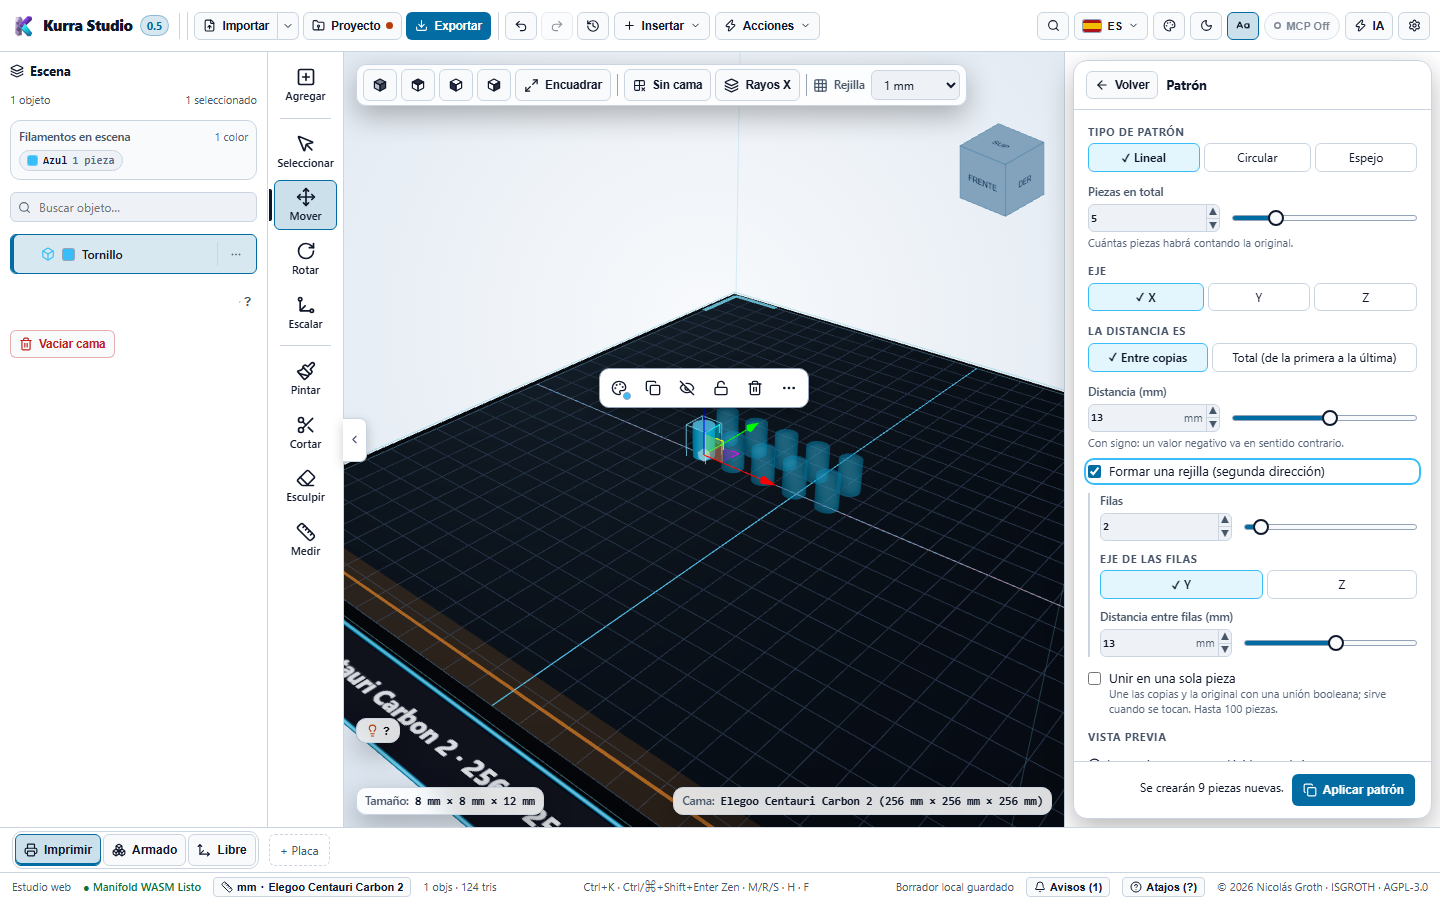
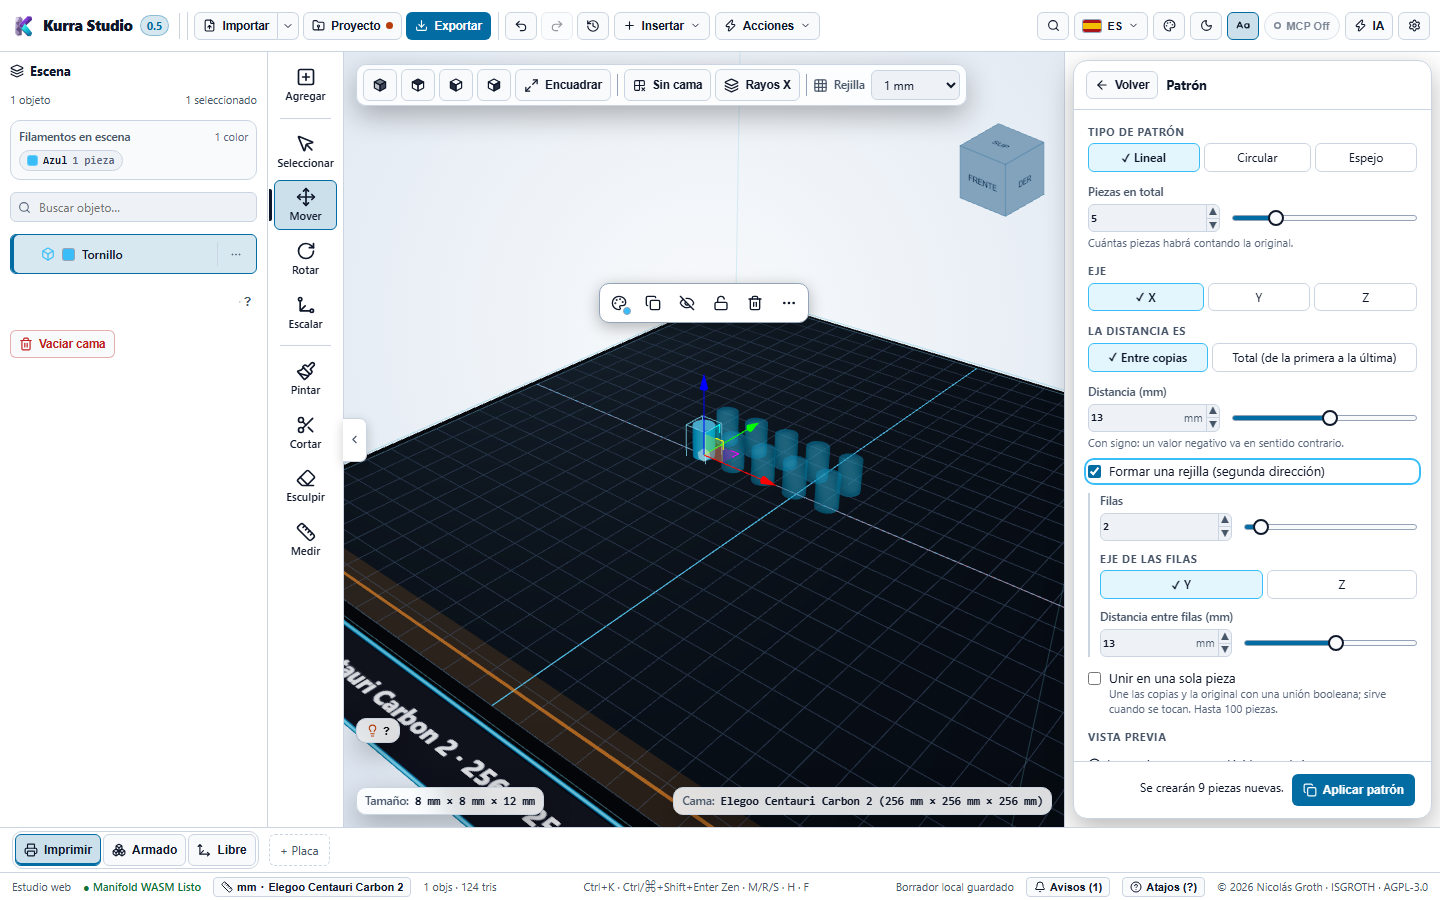
docs: guías y capturas de acoples e instrucciones de armado, tablero, changelog y registro

Changed region(s): [[0.4062, 0.4044, 0.5625, 0.4667], [0.4062, 0.3111, 0.5625, 0.3733]]

diff --git a/docs/TABLERO.md b/docs/TABLERO.md
@@ -1,14 +1,14 @@
 # Tablero de Kurra Studio
 
-**Actualizado el 26 de noviembre de 2026, 21:30.** Muestra qué funciona hoy, qué le falta a cada función y qué viene. El historial de lotes, pruebas y evaluaciones está en otros archivos (ver el final).
+**Actualizado el 26 de noviembre de 2026, 22:20.** Muestra qué funciona hoy, qué le falta a cada función y qué viene. El historial de lotes, pruebas y evaluaciones está en otros archivos (ver el final).
 
 ## En corto: hoy, 26 de noviembre
 
 **Notas a ciegas vigentes** (mínimo 85): funcional **86** · código **85** · usabilidad **81** en la última evaluación completa. En las dos funcionalidades más bajas, última ronda: placas **84** y Simplificar **72**; los cuatro defectos que encontró ya están corregidos, sin reevaluar todavía.
 
-**Pruebas en `main`:** 4655 del programa y 208 del servidor MCP, en verde. Recorridos de navegador de lo nuevo: patrones 20, Dividir a mano 2, partes de la figura 1, tapa roscada 3, arrastre 15, todos en verde.
+**Pruebas en `main`:** 4776 del programa y 220 del servidor MCP, en verde. Recorridos de navegador de lo nuevo, todos en verde: patrones 23, Dividir a mano 2, partes de la figura 1, tapa roscada 3, acople de tubería 2, instrucciones de armado 2, arrastre 15, escala de grupo 2, Simplificar 21.
 
-En desarrollo ahora mismo: nada. Los cuatro bloques de la noche están en `main`, **sin evaluar todavía** (la evaluación a ciegas queda para la mañana).
+En desarrollo ahora mismo: nada. Las seis funcionalidades de la noche están en `main`, **sin evaluar todavía**. Por cuidado del consumo semanal no se lanzaron más lotes; la evaluación a ciegas se acuerda con el autor antes de lanzarla.
 
 Lo que entró hoy y está en `main`:
 
@@ -16,6 +16,9 @@ Lo que entró hoy y está en `main`:
 - **Dividir por las partes de la figura** (cortes en los estrechamientos). Sin evaluar.
 - **Recipiente con tapa roscada** y **pareja de roscas que enrosca**, con comprobación de holgura. Sin evaluar.
 - **Patrón** lineal, en rejilla, circular y espejo. Sin evaluar.
+- **Acople de tubería** roscado o a presión. Sin evaluar.
+- **Instrucciones de armado** después de dividir, con descarga en Markdown y HTML. Sin evaluar.
+- **Corregido:** la barra flotante tapaba el agarre vertical al escalar un grupo; foco y encuadre en Simplificar; «Escena vacía» sobre la vista previa de un asistente; la cámara muestra todas las copias del patrón.
 - **Corregido:** con la vista inicial, arrastrar una pieza la movía en vertical en vez de sobre la cama.
 - **Tira de placas rediseñada:** el selector Imprimir / Armado / Libre y los controles de Armado viven en la tira; el visor queda libre a 1024 px.
 - **3MF que el laminador abre con sus bandejas:** con un «proyecto de ejemplo» de tu laminador (Exportar › 3MF › Laminador) llegan bandejas, nombres, filamento por pieza y colores. Probado por el autor en Elegoo Slicer y OrcaSlicer.
@@ -26,9 +29,8 @@ Lo que entró hoy y está en `main`:
 
 Qué falta verificar:
 
-- Evaluación a ciegas de los cuatro bloques de la noche, y reevaluación de placas y Simplificar.
+- Evaluación a ciegas de las seis funcionalidades de la noche, y reevaluación de placas y Simplificar.
 - «Por las partes de la figura» con figuras reales: en las pruebas con modelos de terceros solo una de cinco tuvo un estrechamiento útil; en figuras con pelo o capa vuelve a los cortes rectos y lo dice.
-- El punto de agarre Y de la escala de un grupo no responde al puntero en su recorrido de navegador (fallo anterior a esta noche, sin diagnosticar).
 - Los cuatro defectos de la última evaluación están corregidos y con recorrido de navegador (aviso y ajuste a la cama al arrastrar entre placas; informe de Simplificar tras «Aplicar de todos modos»; tolerancia pedida; Enter hace vista previa). Falta reevaluar.
 - Si la barra de avance del guardado se ve en un equipo con tarjeta gráfica (consulta abierta).
 - El 3MF con bandejas en Bambu Studio (el autor no lo tiene).
@@ -43,12 +45,12 @@ Para cerrar el día:
 
 Siguientes funcionalidades, en este orden:
 
-3. Encajes: acoples de tubería, clips y biblioteca de conectores.
-4. Instrucciones de armado y preajustes de conectores.
+3. Encajes: clips, preajustes de insertos y biblioteca de conectores.
+4. Instrucciones de armado con imágenes de cada paso.
 5. Tiradores en las caras para estirar una pieza.
 6. Mejoras de pintura (cursor de área, borde duro o suave, relleno con tolerancia).
 
-Pendientes chicos anotados: encuadrar la cámara para que entren las copias de la vista previa del patrón, el aviso «Escena vacía» tapa la vista previa de un asistente, deslizadores en las formas básicas del inspector, conmutador «Ver lo pedido» en Simplificar, alojamientos rectangulares dibujados como círculos en la guía de armado, «Ajustar a la impresora» y «Cama de Placa N» todavía como diálogos.
+Pendientes chicos anotados: deslizadores en las formas básicas del inspector, conmutador «Ver lo pedido» en Simplificar, alojamientos rectangulares dibujados como círculos en la guía de armado, «Ajustar a la impresora» y «Cama de Placa N» todavía como diálogos.
 
 Sin fecha: instalador con actualización desde la app y firma de instaladores; revisar qué código de OrcaSlicer conviene aprovechar ahora que la licencia lo permite.
 
@@ -77,6 +79,7 @@ Lo que ya puede usar cualquiera. Las guías con capturas están en `guia/`.
 - **Roscas ISO M3 a M64** con paso y holgura según la norma: perno, tuerca y agujero roscado. [Generadores](guia/generadores.md)
 - **Pareja de roscas que enrosca:** en el diálogo de roscas, perno y tuerca (o agujero y perno) de una vez, con la holgura comprobada. *Sin evaluar.*
 - **Recipiente con tapa roscada** (Insertar › Asistentes): frasco y tapa con rosca gruesa imprimible sin soportes, holgura ajustable y aviso de si enrosca. *Sin evaluar.* [Recipiente con tapa roscada](guia/tapa-roscada.md)
+- **Acople de tubería** (Insertar › Asistentes): macho y hembra para unir tubos, roscado o a presión, con el paso interior libre y aviso de si encaja. *Sin evaluar.* [Acople de tubería](guia/acople-de-tuberia.md)
 - **Asistentes** (Insertar › Asistentes): caja con tapa, llavero y placa de enchufe, con formulario, vista previa en el visor y «Editar con el asistente» para reabrir una pieza. [Asistentes](guia/asistentes.md)
 - **Alojamiento de imán** (Insertar): un clic sobre una cara deja el hueco para un imán redondo, cuadrado o rectangular, con holgura y preajustes propios. [Alojamiento de imán](guia/alojamiento-de-iman.md)
 - **Torreta para tornillo** (Insertar): un poste con agujero para tornillo directo o inserto roscado. [Torreta para tornillo](guia/torreta-para-tornillo.md)
@@ -99,6 +102,7 @@ Lo que ya puede usar cualquiera. Las guías con capturas están en `guia/`.
 - **Dividir para imprimir:** parte un modelo más grande que la cama en piezas con nombre (A1, B1…), uniones, marcas de pareja, animación de armado, «Preparar para imprimir» por placas y exportación de un archivo por pieza. [Dividir para imprimir](guia/dividir-para-imprimir.md)
 - **Cortes a mano e inclinados:** pones los planos donde quieras, los inclinas hasta 45° y puedes ver solo las piezas. *Sin evaluar.* [Dividir para imprimir](guia/dividir-para-imprimir.md)
 - **Cortes por las partes de la figura:** los planos van a los estrechamientos (cuello, cintura) en vez de la rejilla pareja. *Sin evaluar.* [Dividir para imprimir](guia/dividir-para-imprimir.md)
+- **Instrucciones de armado:** pasos en orden, con la unión de cada uno y la lista de materiales; se descargan en Markdown o HTML. *Sin evaluar.* [Dividir para imprimir](guia/dividir-para-imprimir.md)
 - **Corte por plano con conectores** (espiga, pasador, cola de milano), con holgura configurable. Al conservar una sola mitad, eliges dónde dejarla. [Cortar y ahuecar](guia/cortar-y-ahuecar.md)
 - **Uniones con imanes enfrentados** para una figura desmontable.
 - **Tamaño de conector automático** según la sección del corte, y un resumen que dice cuántas uniones quedan firmes, regulares, débiles o para pegar.
@@ -165,7 +169,8 @@ Funciones que ya se usan y lo que les falta, en una línea cada una.
 | Dividir: cortes a mano | Arrastrar un plano inclinado en el visor; firmeza en vivo con planos inclinados; una pieza con uniones en dos direcciones y un plano inclinado queda para pegar |
 | Dividir: por las partes de la figura | Solo planos rectos que atraviesan todo el modelo; no reconoce partes del cuerpo, solo estrechamientos; sin avance propio durante el análisis |
 | Recipiente con tapa roscada | Solo rosca derecha; el ángulo de flanco no está en el formulario; un recipiente grande puede pausar la vista previa |
-| Patrón | La cámara no se aleja sola para mostrar todas las copias de la vista previa |
+| Acople de tubería | Sin junta tórica ni púas para manguera; la pared mínima informada es la de diseño, no medida |
+| Instrucciones de armado | Sin imágenes del visor; el aviso de unión débil se repite en cada paso |
 | Proyectos `.kura` | Encuadrar la vista al abrir; confirmar en un equipo real que la barra de avance al guardar aparece y avanza |
 | Recuperación local | Vista previa del borrador |
 | Importar | Importar GLB |
@@ -208,7 +213,6 @@ Lo que todavía no existe. Ordenado por prioridad dentro de cada grupo.
 | Dividir para imprimir | Guía de uniones: previsualizar, editar y confirmar (hoy hay vista previa, no edición) |
 | Dividir para imprimir | Uniones firmes: tamaño mínimo de pared según la sección (el tamaño del conector ya es automático) |
 | Dividir para imprimir | Vista sin camas, con las piezas flotando entre armado y desarmado (la vista Libre de Placas es el punto de partida) |
-| Encajes | Acoples de tubería macho y hembra |
 | Encajes | Clips, tornillos, insertos y biblioteca de conectores |
 | Encajes | Preajustes para insertos, y holgura de encajes a presión (hoy fija en 0,2 mm). Los imanes ya tienen preajustes |
 | Placas y escena | Asistente de importación con 11 modos de distribución (repartir hoy tiene 4) |
@@ -236,7 +240,7 @@ Lo que todavía no existe. Ordenado por prioridad dentro de cada grupo.
 | IA e integraciones | Adjuntar imágenes y archivos de referencia en el chat |
 | Automatización | Recetas: guardar una secuencia de pasos y repetirla sobre otra pieza o un lote |
 | Aprender | Tutorial interactivo de uso y modelos de ejemplo |
-| Aprender | Instrucciones de armado generadas al dividir un modelo |
+| Aprender | Instrucciones de armado con una imagen del visor por paso (el texto ya existe) |
 | Distribución | Instaladores firmados para Windows, Linux y macOS, con actualizaciones |
 | Distribución | Estimación de material por pieza |
 

diff --git a/CHANGELOG.md b/CHANGELOG.md
@@ -10,6 +10,13 @@ El proyecto sigue versionamiento pre-1.0 (`0.x.y`) durante su maduración hasta 
 
 ## [Sin publicar]
 
+- **Acople de tubería** (Insertar › Asistentes): pareja macho y hembra para unir tubos o mangueras impresos, roscada o a presión, con el paso interior libre y un aviso que dice si enrosca o encaja y con cuánta holgura.
+- **Instrucciones de armado:** después de dividir, «Instrucciones de armado» lista los pasos en orden (qué pieza va con cuál, por qué cara, con qué unión y hacia dónde entra) y los materiales; al pulsar un paso se resaltan sus piezas. Se descargan como Markdown o como HTML para imprimir.
+- **Patrón:** la cámara se aleja sola para que entren todas las copias de la vista previa.
+- **Corregido:** la barra flotante de la selección tapaba el punto de agarre vertical al escalar un grupo.
+- **Corregido en Simplificar:** tras «Reparar malla» el foco vuelve al panel, y la vista previa encuadra la pieza si no estaba a la vista.
+- **Corregido:** el aviso «Escena vacía» tapaba la vista previa de un asistente.
+- **Servidor MCP:** 75 herramientas. Nuevas: `kura_create_pipe_coupling` y `kura_get_assembly_instructions`. `npm run mcp:build` vuelve a compilar.
 - **Dividir con cortes a mano.** En *Dividir para imprimir*, «A mano» deja poner los planos donde quieras: agregar, quitar, duplicar, mover con deslizador o número e **inclinar** hasta 45°. «Editar estos cortes a mano» parte de la rejilla automática, y «Solo las piezas» oculta los planos en el visor. Las uniones de un plano inclinado quedan perpendiculares a su cara.
 - **Dividir por las partes de la figura.** «Cómo cortar › Por las partes de la figura» pone los cortes en los estrechamientos (cuello, cintura, tobillos) en vez de la rejilla pareja, y dice cuántos cayeron ahí y cuántos quedaron rectos.
 - **Recipiente con tapa roscada** (Insertar › Asistentes): frasco y tapa que enroscan, con rosca gruesa imprimible sin soportes, holgura ajustable y un aviso que dice si enrosca y con cuánta holgura. En el diálogo de roscas, «Crear la pareja que enrosca» hace perno y tuerca (o agujero y perno) de una vez.

diff --git a/docs/EVALUACIONES.md b/docs/EVALUACIONES.md
@@ -1031,3 +1031,17 @@ Lectura del orquestador: es la tercera vez que un lote sin navegador entrega alg
 
 Pruebas tras la integración: 4655 del programa y 208 del servidor MCP.
 
+**Segunda tanda de la noche (hasta las 22:20, en `main`).** Tras el aviso del autor sobre el consumo semanal no se lanzaron más lotes.
+
+| Lote | Agente | Duración | Tokens | Resultado |
+|---|---|---|---|---|
+| `feat/acoples-tuberia` | dev-motor (Opus), sin navegador | 19 min | 292 k | Sus 2 recorridos pasaron a la primera en navegador |
+| `feat/instrucciones-armado` | dev-motor (Opus), sin navegador | 29 min | 316 k | Sus 2 recorridos pasaron a la primera en navegador |
+| `fix/menores-n27` | dev-ui (Sonnet), con navegador | 55 min | 219 k | Cinco arreglos, cada uno reproducido antes de corregir |
+
+El agarre Y de la escala de grupo era un defecto real: la barra flotante de la selección quedaba encima del agarre. Ahora la barra se coloca fuera de la huella del manipulador.
+
+Los dos lotes sin navegador de esta tanda pasaron sus recorridos sin correcciones; sus encargos ya traían las lecciones de la tanda anterior (selectores exactos, primitivas apoyadas en su base, ejes del usuario).
+
+Pruebas tras la integración: 4776 del programa y 220 del servidor MCP. Consumo de agentes de la noche completa: unos 2,1 millones de tokens en siete agentes con dato (falta el de patrones).
+

diff --git a/docs/guia/patrones.md b/docs/guia/patrones.md
@@ -2,8 +2,6 @@
 
 **Patrón** repite una pieza (o varias) en una fila, en una rejilla o alrededor de un eje, y también la refleja como en un espejo conservando la original. Sirve para hacer diez tornillos iguales, una parrilla de agujeros, seis patas alrededor de una base o la otra mitad de una pieza simétrica. Antes de aplicar ves **cómo quedarían las copias** en el visor.
 
-> Capturas pendientes de generar (no están en `img/` todavía): `patrones-01-lineal.png`, `patrones-02-rejilla.png`, `patrones-03-grupo.png`, `patrones-04-circular.png` y `patrones-05-espejo.png`. Las crea `e2e/docs/capturas-patrones.spec.ts` con `npm run docs:capturas -- -g patrones`; al generarlas, quita este aviso.
-
 ## Abrir el panel
 
 1. Selecciona una o más piezas.
